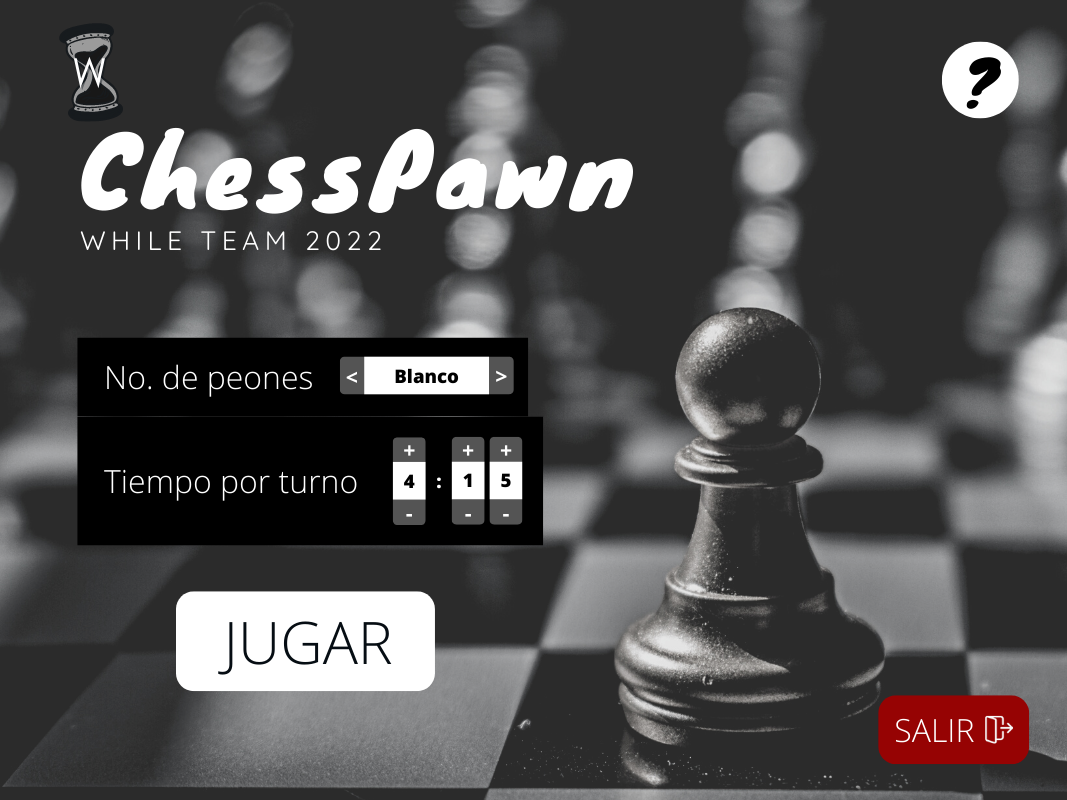
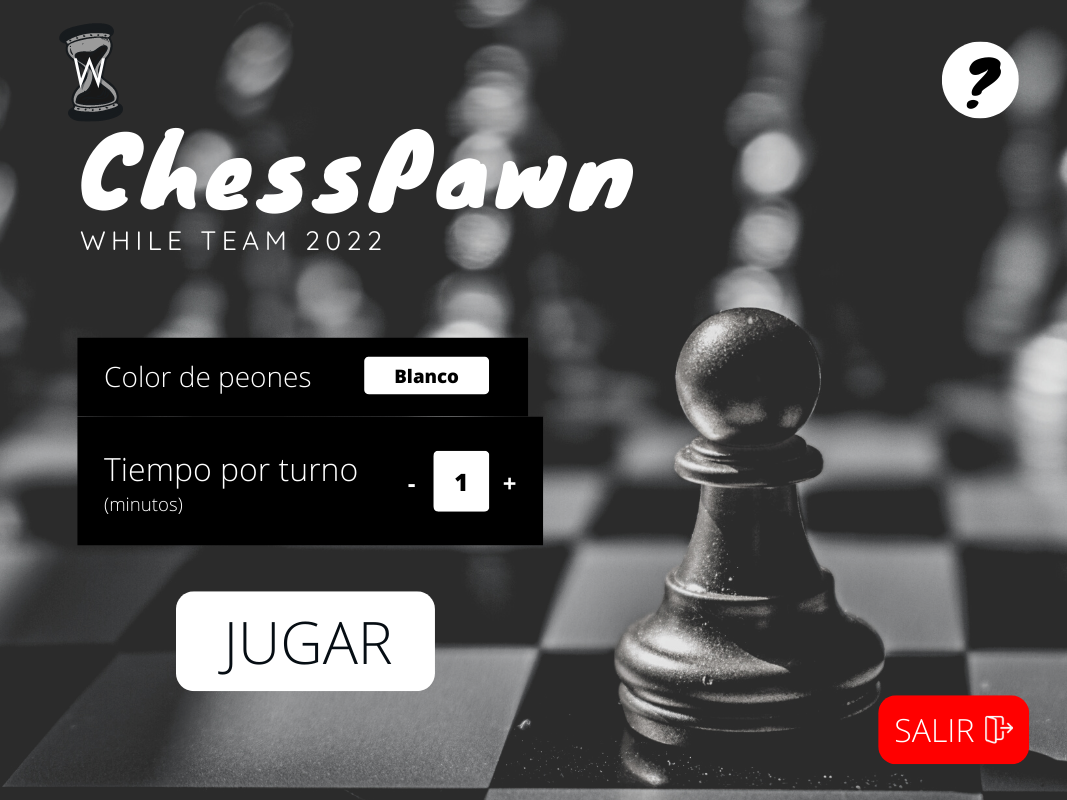
Update: Menu screen functionality

diff --git a/ChessMenuScreen.h b/ChessMenuScreen.h
@@ -14,19 +14,23 @@
 using namespace std;
 using namespace sf;
 
-struct botton{
-    RectangleShape r;
-    string name;
-    boton(string identidad, RectangleShape rect){
-        name=identidad;
-        r= rect;
-    }
-};
+//struct botton{
+//    RectangleShape r;
+//    string name;
+//    boton(string identidad, RectangleShape rect){
+//        name=identidad;
+//        r= rect;
+//    }
+//};
+static int MAIN_PLAYER_COLOR=0;
+static int MINUTES_PER_TURN=1;
 
 struct ChessMenu{
     Font* fuente;
     Text* txt_editor=NULL;
     RectangleShape* option=NULL;
+    RectangleShape minutesShape;
+    Text minutesText;
     RenderWindow* window;
     RectangleShape button;
     string name;
@@ -39,73 +43,77 @@ struct ChessMenu{
             txt_editor[i]= Text("", *fuente);
         }
         option[0]= RectangleShape({140,40});
-        option[1]= RectangleShape({40,42});
-        option[2]= RectangleShape({38,40});
+        option[1]= RectangleShape({40,40});
+        option[2]= RectangleShape({40,40});
         option[3]= RectangleShape({250,80});
-        option[4]= RectangleShape({160,50});
-        option[5]= RectangleShape({160,50});
+        option[4]= RectangleShape({140,60});
+        option[5]= RectangleShape({80,80});
 
-        option[0].setFillColor(Color::White);
-        option[1].setFillColor(Color::Black);
-        option[2].setFillColor(Color::Black);
-        option[3].setFillColor(Color::White);
-        option[4].setFillColor(Color::Red);
-        option[5].setFillColor(Color::White);
+        option[0].setFillColor(Color::Blue);
+        option[1].setFillColor(Color::Blue);
+        option[2].setFillColor(Color::Blue);
+        option[3].setFillColor(Color::Blue);
+        option[4].setFillColor(Color::Blue);
+        option[5].setFillColor(Color::Blue);
 
         option[0].setPosition({350,357});
-        option[1].setPosition({335,355});
-        option[2].setPosition({490,357});
+        option[1].setPosition({390,460});
+        option[2].setPosition({490,460});
         option[3].setPosition({180,600});
-        option[4].setPosition({890,700});
-        option[5].setPosition({890,100});
+        option[4].setPosition({885,700});
+        option[5].setPosition({945,32});
 
-        txt_editor[0].setColor(Color::Black);
-        txt_editor[1].setColor(Color::White);
-        txt_editor[2].setColor(Color::White);
-        txt_editor[3].setColor(Color::Black);
-        txt_editor[4].setColor(Color::White);
-        txt_editor[5].setColor(Color::Black);
+        minutesShape= RectangleShape({60,50});
+        minutesShape.setFillColor(Color::Red);
+        minutesShape.setPosition({430,455});
 
-        txt_editor[0].setCharacterSize(45);
-        txt_editor[1].setCharacterSize(50);
-        txt_editor[2].setCharacterSize(50);
-        txt_editor[3].setCharacterSize(100);
-        txt_editor[4].setCharacterSize(55);
-        txt_editor[5].setCharacterSize(55);
+        minutesText.setColor(Color::White);
+        minutesText.setCharacterSize(50);
+        minutesText.setPosition({395,341});
+        minutesText.setString("1");
 
-        txt_editor[0].setPosition({395,341});
-        txt_editor[1].setPosition({356,340});
-        txt_editor[2].setPosition({494,339});
-        txt_editor[3].setPosition({213,555});
-        txt_editor[4].setPosition({917,683});
-        txt_editor[5].setPosition({917,183});
-
-        txt_editor[0].setString("Blanco");
-        txt_editor[1].setString("<");
-        txt_editor[2].setString(">");
-        txt_editor[3].setString("JUGAR");
-        txt_editor[4].setString("Salir");
-        txt_editor[5].setString("?");
+//        txt_editor[0].setString("Blanco");
+////        txt_editor[1].setString("-");
+////        txt_editor[2].setString("+");
+//        txt_editor[3].setString("JUGAR");
+//        txt_editor[4].setString("Salir");
+//        txt_editor[5].setString("?");
 
     }
     void renderMenu(RenderWindow &window){
         for (int i= 0; i<6; i++){
             window.draw(option[i]);
-            window.draw(txt_editor[i]);
         }
+//        window.draw(minutesShape);
+//        window.draw(minutesText);
+    }
+    void updateMinutes(){
+        string text=""+MINUTES_PER_TURN;
+        cout<<"TEXT: "<<MINUTES_PER_TURN<<"\n";
+        minutesText.setString(text);
     }
 };
 
 struct ChessMenuScreen : public ChessScreen
 {
+    static const int STATUS_PLAY=1;
+    static const int STATUS_PAUSE=2;
     Music music;
     Event event;
     Texture texture;
     Sprite sprite;
     ChessMenu menu;
-    list<botton> option;
+//    list<botton> option;
+    int (*actions[6])(ChessMenu &);
+
     ChessMenuScreen()
     {
+        actions[0]=ActionChangeColor;
+        actions[1]=ActionSubstractTime;
+        actions[2]=ActionAddTime;
+        actions[3]=ActionPlay;
+        actions[4]=ActionClose;
+        actions[5]=ActionPause;
         if (!music.openFromFile("./assets/sounds/MenuMusic.ogg")){
             throw MenuMusicException();
             exit(1);
@@ -147,33 +155,20 @@ struct ChessMenuScreen : public ChessScreen
                     case (Event::MouseButtonPressed):
                         if (event.mouseButton.button == Mouse::Left)
                         {
-                            return CHESS_GAME_SCREEN_NUMBER;
+//                            return CHESS_GAME_SCREEN_NUMBER;
                             Vector2i posicion_mouse;
                             posicion_mouse=Mouse::getPosition(window);
                             for (int i= 0; i<6; i++){
-//                                if (option[i]->getGlobalBounds().Contains(posicion_mouse.x, posicion_mouse.y)){
-                                    switch(i){
-                                        case 0:
-                                            break;
-
-                                        case 1:
-                                            break;
-
-                                        case 2:
-                                            break;
-
-                                        case 3:
-
-                                            break;
-
-                                        case 4:
-                                            exit(1);
-                                            break;
-
-                                        case 5:
-                                            break;
+                                if (menu.option[i].getGlobalBounds().contains(posicion_mouse.x, posicion_mouse.y)){
+                                    int operation=actions[i](menu);
+                                    if(operation==STATUS_PAUSE){
+                                        return CHESS_PAUSE_SCREEN_NUMBER;
+                                    }else if(operation==STATUS_PLAY){
+                                        return CHESS_GAME_SCREEN_NUMBER;
                                     }
+                                    break;
                                 }
+                            }
                         }
                         break;
 
@@ -182,6 +177,8 @@ struct ChessMenuScreen : public ChessScreen
             window.clear();
             window.draw(sprite);
             menu.renderMenu(window);
+            window.draw(menu.minutesShape);
+            window.draw(menu.minutesText);
             window.display();
         }
     }
@@ -190,6 +187,39 @@ struct ChessMenuScreen : public ChessScreen
         music.sf::SoundStream::pause();
     }
 
+    static int ActionPlay(ChessMenu& menu){
+        cout<<"PLAY\n";
+        return STATUS_PLAY;
+    }
+    static int ActionClose(ChessMenu& menu){
+        exit(1);
+    }
+    static int ActionAddTime(ChessMenu& menu){
+        if(MINUTES_PER_TURN<5){
+            MINUTES_PER_TURN++;
+            menu.updateMinutes();
+        }
+        cout<<"ADD\n";
+    }
+    static int ActionSubstractTime(ChessMenu& menu){
+        if(MINUTES_PER_TURN>1){
+            MINUTES_PER_TURN--;
+            menu.updateMinutes();
+        }
+        cout<<"SUBSTRACT\n";
+    }
+    static int ActionChangeColor(ChessMenu& menu){
+        if(MAIN_PLAYER_COLOR==ChessPiece::COLOR_WHITE){
+            MAIN_PLAYER_COLOR=ChessPiece::COLOR_BLACK;
+        }else{
+            MAIN_PLAYER_COLOR=ChessPiece::COLOR_WHITE;
+        }
+        cout<<"CHANGECOLOR: "<<MAIN_PLAYER_COLOR<<"\n";
+    }
+    static int ActionPause(ChessMenu& menu){
+        cout<<"PAUSE\n";
+        return STATUS_PAUSE;
+    }
 };
 
 

diff --git a/main.cpp b/main.cpp
@@ -8,7 +8,6 @@
 #include "ChessMenuScreen.h"
 #include "ChessExceptions.h"
 #include <iostream>
-#include <thread>
 
 using namespace std;
 using namespace sf;
@@ -45,6 +44,7 @@ int main()
     screens.push_back(new ChessScreen()); // Empty screen, it doesn't do anything
     screens.push_back(new ChessMenuScreen()); // Screen no. 1
     screens.push_back(new ChessGameScreen()); // Screen no. 2
+    screens.push_back(new ChessPauseScreen()); // Screen no. 3
     int currentScreen=1;
     int nextScreen=currentScreen;
 
@@ -55,5 +55,6 @@ int main()
             currentScreen=nextScreen;
         }
     }
+    //TODO: LIBERAR MEMORIA
     return 0;
 }

diff --git a/ChessScreens.h b/ChessScreens.h
@@ -16,6 +16,7 @@ using namespace sf;
 
 const int CHESS_MENU_SCREEN_NUMBER=1;
 const int CHESS_GAME_SCREEN_NUMBER=2;
+const int CHESS_PAUSE_SCREEN_NUMBER=3;
 
 struct ChessScreen{
     static const int CLICK_ON_NOTHING=0;
